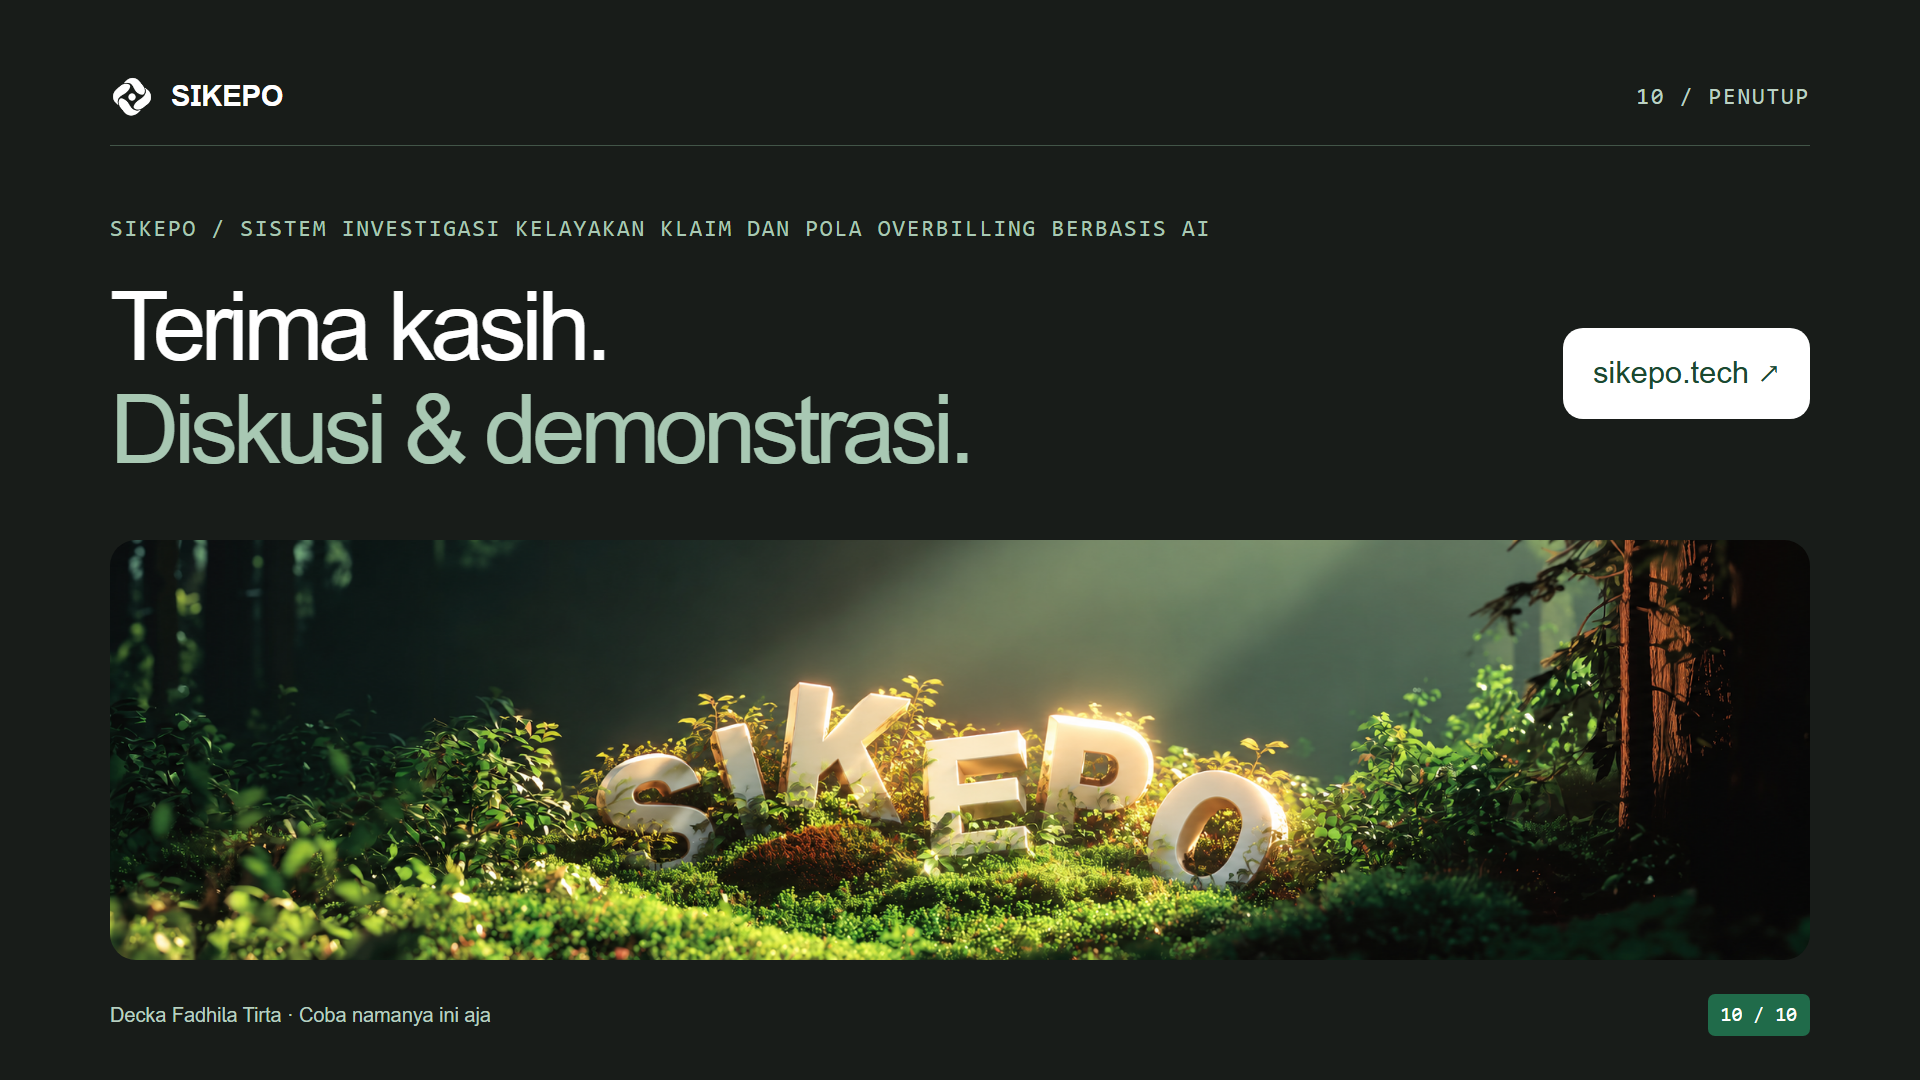
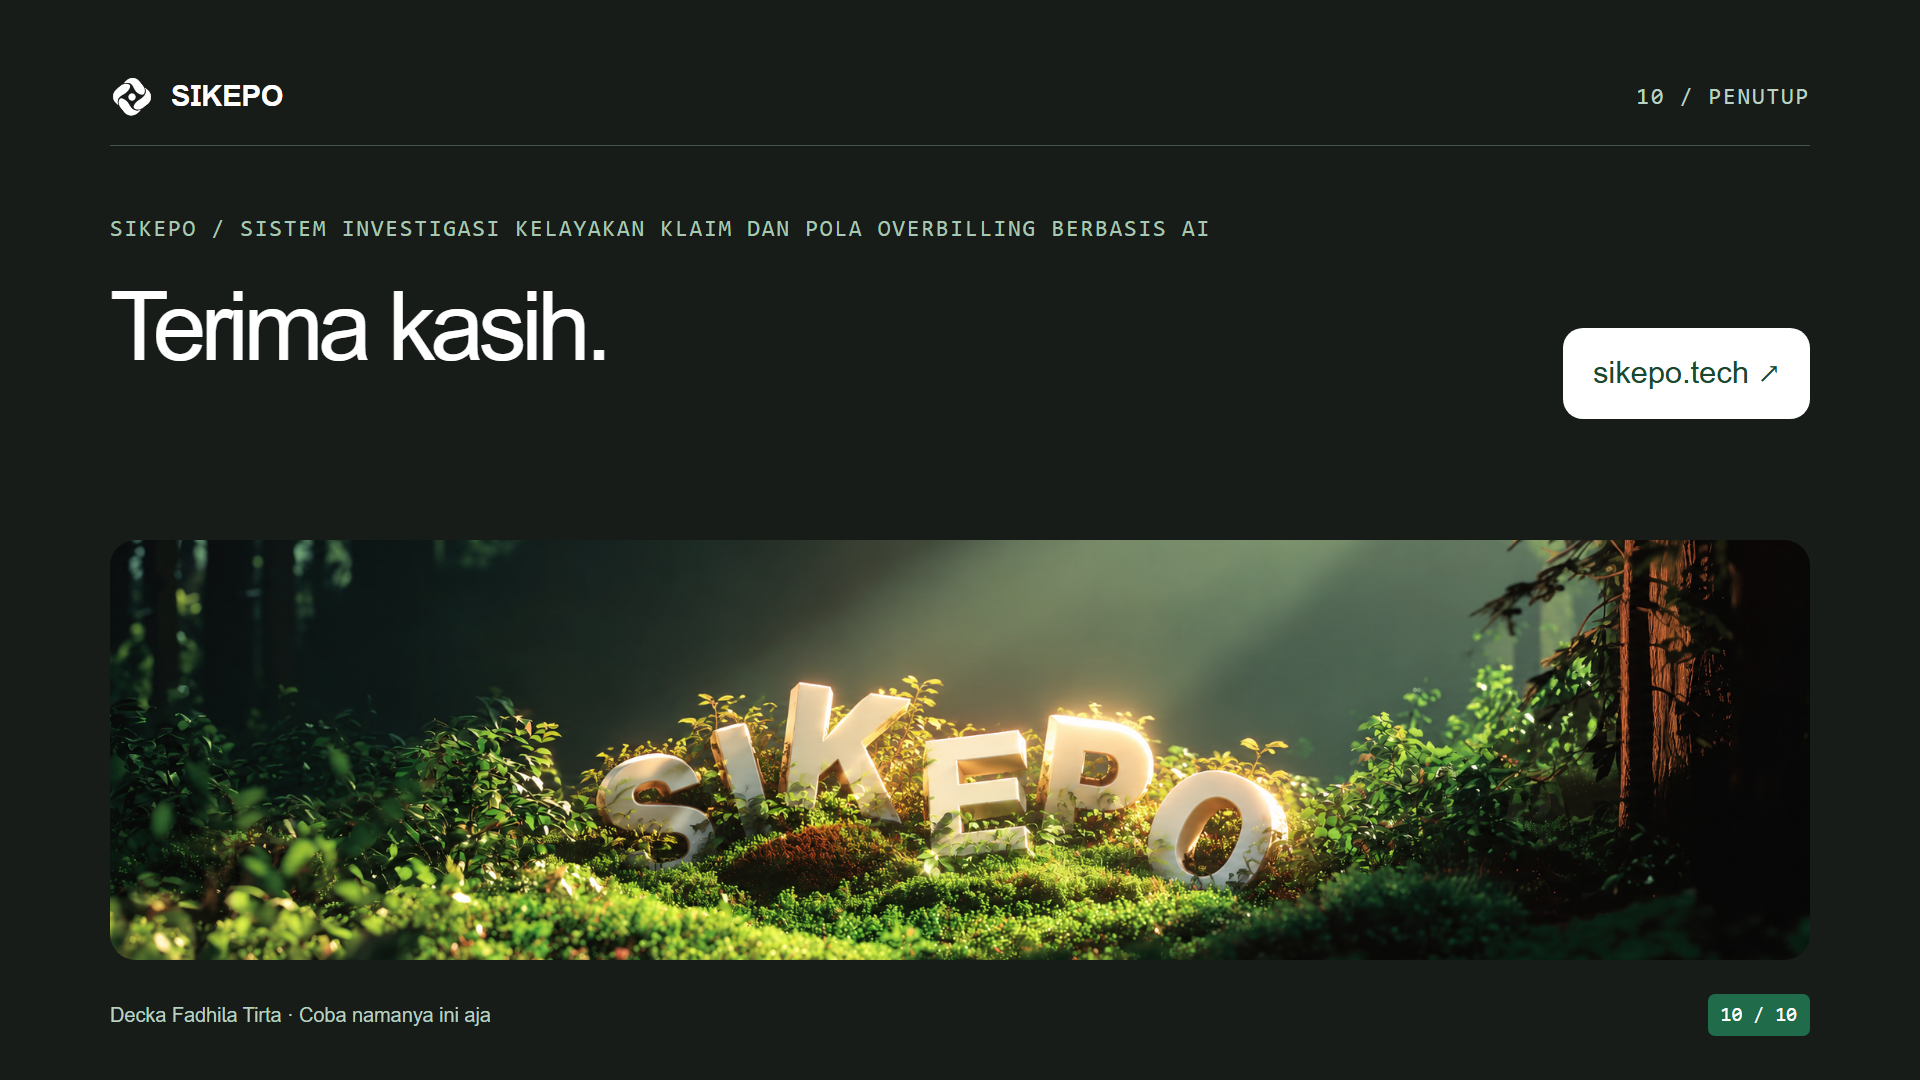
End presentation at thank you and remove question invitation

Changed region(s): [[0.0625, 0.3667, 0.5, 0.4278]]

diff --git a/slides/sikepo-pitch/index.tsx b/slides/sikepo-pitch/index.tsx
@@ -48,7 +48,7 @@ const Results:Page=()=> <div style={root}><Header section="08 / Hasil pengujian"
 
 const CaseStudy:Page=()=> <div style={root}><Header section="09 / Studi kasus"/><div style={{marginTop:75}}><p style={{...label,color:green}}>Pengajuan sintetis / diuji pada aplikasi publik</p><h2 style={{...title,marginTop:24}}>Biaya 2,5× acuan.<br/><span style={{color:'#8b948d'}}>Ada selisih total tagihan.</span></h2></div><div style={{display:'grid',gridTemplateColumns:'760px 880px',gap:60,marginTop:55}}><div style={{borderRadius:26,background:'#fff',padding:38,boxSizing:'border-box',height:410}}><p style={{...label,color:green}}>Masukan</p><p style={{fontSize:40,letterSpacing:'-.03em',margin:'35px 0 22px'}}>Rp15 juta / Rp6 juta</p><p style={{...text,fontSize:29}}>Pengajuan dibanding tarif skenario.</p><div style={{borderTop:'1px solid #c6d5c9',marginTop:30,paddingTop:25}}><p style={{...text,fontSize:29}}>A1: rasio biaya dan invoice terpicu.<br/>A2: skor 0,4964 &gt; ambang 0,3959.</p></div></div><div style={{background:'#206b4a',color:'#fff',borderRadius:26,padding:38,boxSizing:'border-box',height:410}}><p style={{...label,color:'#c0dbc9'}}>Keluaran otomatis</p><h3 style={{fontSize:45,lineHeight:1.15,fontWeight:500,letterSpacing:'-.035em',margin:'30px 0 20px'}}>Perlu investigasi</h3><p style={{...text,fontSize:30,color:'#d7e7db'}}>NALAR merangkum biaya, selisih tagihan,<br/>dan temuan anomali model.</p><div style={{borderTop:'1px solid #78a48b',marginTop:20,paddingTop:20,fontSize:27,lineHeight:1.4}}>Pemeriksa mencocokkan rincian biaya<br/>dan total invoice dengan pengajuan.</div></div></div><p style={{position:'absolute',left:110,bottom:118,fontSize:25,color:muted,margin:0}}>Kasus pada rekaman demo · Data sintetis · Keputusan akhir oleh verifikator.</p><Footer/></div>;
 
-const Closing:Page=()=> <div style={{...root,background:dark,color:'#fff'}}><Header section="10 / Penutup" light/><div style={{marginTop:90}}><p style={{...label,color:'#a9c8b4'}}>SiKePo / Sistem Investigasi Kelayakan Klaim dan Pola Overbilling berbasis AI</p><h2 style={{...title,fontSize:96,marginTop:28}}>Terima kasih.<br/><span style={{color:'#a8c8b3'}}>Diskusi & demonstrasi.</span></h2></div><a href="https://sikepo.tech" style={{position:'absolute',right:110,top:328,background:'#fff',color:'#1b4930',padding:'22px 30px',borderRadius:20,fontSize:31,textDecoration:'none'}}>sikepo.tech ↗</a><img alt="SIKEPO di lanskap hutan" src={forest} style={{position:'absolute',left:110,top:540,width:1700,height:420,objectFit:'cover',borderRadius:26}}/><Footer light/></div>;
+const Closing:Page=()=> <div style={{...root,background:dark,color:'#fff'}}><Header section="10 / Penutup" light/><div style={{marginTop:90}}><p style={{...label,color:'#a9c8b4'}}>SiKePo / Sistem Investigasi Kelayakan Klaim dan Pola Overbilling berbasis AI</p><h2 style={{...title,fontSize:96,marginTop:28}}>Terima kasih.</h2></div><a href="https://sikepo.tech" style={{position:'absolute',right:110,top:328,background:'#fff',color:'#1b4930',padding:'22px 30px',borderRadius:20,fontSize:31,textDecoration:'none'}}>sikepo.tech ↗</a><img alt="SIKEPO di lanskap hutan" src={forest} style={{position:'absolute',left:110,top:540,width:1700,height:420,objectFit:'cover',borderRadius:26}}/><Footer light/></div>;
 
 export const notes: (string | undefined)[] = [
   "[SLIDE 1 · 00:00–00:20 · 20 detik]\nSelamat pagi, Bapak dan Ibu juri. Perkenalkan, saya Decka Fadhila Tirta, dari tim “Coba namanya ini aja”. Saya mengikuti kegiatan ini secara individu. Hari ini saya akan memperkenalkan SiKePo, aplikasi yang saya kembangkan untuk membantu investigasi kelayakan klaim dan pola overbilling.\n[Jeda singkat, lanjut slide.]",
@@ -60,6 +60,6 @@ export const notes: (string | undefined)[] = [
   "[SLIDE 7 · 04:25–05:20 · 55 detik]\nAda dua proses pelatihan yang berbeda di balik sistem ini.\nUntuk machine learning, saya menggunakan dataset lima juta klaim sintetis periode 2019 sampai 2025. Sebanyak tiga koma satu juta klaim tahun 2019 sampai 2023 digunakan untuk melatih Isolation Forest. Data tahun 2024 digunakan untuk kalibrasi ambang, dan tahun 2025 untuk pengujian.\nUntuk large language model, atau LLM, saya memakai model dasar Qwen3 empat miliar parameter. Model ini kemudian di-fine-tuning dengan metode LoRA menggunakan delapan ribu instruksi sintetis. Hasil pengembangan ini saya beri nama NALAR.\nHmm... pembagian tugasnya begini: ML menghasilkan sinyal anomali, sedangkan NALAR membantu menjelaskan sinyal tersebut. NALAR menerima indikator pemeriksaan, penanda anomali, dan skor; bukan identitas atau rekam medis peserta. Seluruh data pelatihan pada pengembangan ini dibuat sintetis.",
   "[SLIDE 8 · 05:20–05:55 · 35 detik]\nPada pengujian Isolation Forest dengan sembilan ratus delapan puluh satu ribu enam ratus dua puluh klaim sintetis tahun 2025, precision mencapai delapan puluh tujuh koma delapan enam persen, recall sembilan puluh dua koma dua sembilan persen, dan F1-score sembilan puluh koma nol dua persen.\nAngka ini menunjukkan hasil deteksi pada skenario sintetis. Masih ada alarm keliru dan anomali yang terlewat, seperti yang terlihat pada tabel. Karena itu, hasil ini belum dapat dianggap sebagai akurasi deteksi fraud pada klaim BPJS nyata.",
   "[SLIDE 9 · 05:55–06:25 · 30 detik]\nSebagai rangkuman kasus pada demo, biaya pengajuan lima belas juta rupiah dibandingkan dengan acuan enam juta rupiah, atau dua setengah kali lipat. Selain itu, ada selisih total tagihan.\nAturan menandai ketidaksesuaian tersebut, dan skor anomali sekitar nol koma empat sembilan enam berada di atas ambang sekitar nol koma tiga sembilan enam. NALAR lalu merangkum alasan untuk investigasi.\nTindak lanjut yang diperlukan adalah mencocokkan rincian biaya dan invoice dengan bukti layanan. Status akhirnya dicatat oleh verifikator.",
-  "[SLIDE 10 · 06:25–06:40 · 15 detik]\nDemikian pengenalan SiKePo. Harapannya, pemeriksa dapat memulai dari klaim yang perlu perhatian, memahami alasan temuannya, dan mencatat keputusan secara lebih terarah.\nSaya Decka Fadhila Tirta. Terima kasih atas perhatian Bapak dan Ibu. Saya siap menerima pertanyaan."
+  "[SLIDE 10 · 06:25–06:40 · 15 detik]\nDemikian pengenalan SiKePo. Harapannya, pemeriksa dapat memulai dari klaim yang perlu perhatian, memahami alasan temuannya, dan mencatat keputusan secara lebih terarah.\nSaya Decka Fadhila Tirta. Terima kasih atas perhatian Bapak dan Ibu."
 ];
 export default [Team,Idea,Background,Process,Demo,Features,Training,Results,CaseStudy,Closing] satisfies Page[];

diff --git a/videos/sikepo-demo/presentation-film/index.html b/videos/sikepo-demo/presentation-film/index.html
@@ -3,7 +3,7 @@
 #root{position:relative;width:1280px;height:720px;background:#141b16}.slide{position:absolute;left:16px;top:42px;width:1040px;height:585px;overflow:hidden;border-radius:12px;background:#f0f0ee}.slide img{width:100%;height:100%;object-fit:contain}.slide video,video.slide{object-fit:contain}
 .face{position:absolute;left:1072px;top:529px;width:192px;height:108px;border:2px solid #f3f4ef;border-radius:10px;overflow:hidden;box-shadow:0 5px 14px #0005}video.face{display:block;object-fit:cover}
 .brand{position:absolute;left:1072px;top:44px;display:flex;align-items:center;gap:9px;font-size:23px;font-weight:bold}.brand img{width:28px;height:28px}.chapter{position:absolute;left:1072px;top:123px;width:184px;font-size:19px;line-height:1.4}.chapter span{font:13px monospace;color:#adc5b5}.chapter p{margin-top:17px}.name{position:absolute;left:1072px;top:652px;width:190px;font-size:13px;line-height:1.4;color:#d3dfd6}.progress{position:absolute;left:16px;top:647px;width:1040px;height:2px;background:#3d5445}.progress div{height:2px;background:#87b99a;width:100%;transform-origin:left}.credit{position:absolute;left:16px;top:668px;color:#a9bdb0;font-size:12px}
-</style></head><body><div data-hf-id="hf-si6d" id="root" data-composition-id="main" data-start="0" data-duration="417.212834" data-width="1280" data-height="720">
+</style></head><body><div data-hf-id="hf-si6d" id="root" data-composition-id="main" data-start="0" data-duration="414.742271" data-width="1280" data-height="720">
 <div data-hf-id="hf-p82d" id="slide-1" class="clip slide" data-start="0" data-duration="20.0" data-track-index="1"><img data-hf-id="hf-souv" id="image-1" src="assets/slide-01.png"></div>
 <div data-hf-id="hf-t0l6" id="chapter-1" class="clip chapter" data-start="0" data-duration="20.0" data-track-index="4"><span data-hf-id="hf-1wac">01 / 10</span><p data-hf-id="hf-nfla">Perkenalan</p></div>
 <div data-hf-id="hf-uq9t" id="slide-2" class="clip slide" data-start="20.0" data-duration="32.8" data-track-index="1"><img data-hf-id="hf-81l3" id="image-2" src="assets/slide-02.png"></div>
@@ -22,16 +22,16 @@
 <div data-hf-id="hf-b32j" id="chapter-8" class="clip chapter" data-start="331.682" data-duration="34.099999999999966" data-track-index="4"><span data-hf-id="hf-zz9h">08 / 10</span><p data-hf-id="hf-nlyh">Hasil pengujian</p></div>
 <div data-hf-id="hf-euug" id="slide-9" class="clip slide" data-start="365.782" data-duration="33.60000000000002" data-track-index="1"><img data-hf-id="hf-tf1z" id="image-9" src="assets/slide-09.png"></div>
 <div data-hf-id="hf-tvjj" id="chapter-9" class="clip chapter" data-start="365.782" data-duration="33.60000000000002" data-track-index="4"><span data-hf-id="hf-mhf0">09 / 10</span><p data-hf-id="hf-crjh">Studi kasus</p></div>
-<div data-hf-id="hf-uqsr" id="slide-10" class="clip slide" data-start="399.382" data-duration="17.831000000000017" data-track-index="1"><img data-hf-id="hf-mq3h" id="image-10" src="assets/slide-10.png"></div>
-<div data-hf-id="hf-1dmi" id="chapter-10" class="clip chapter" data-start="399.382" data-duration="17.831000000000017" data-track-index="4"><span data-hf-id="hf-pg8m">10 / 10</span><p data-hf-id="hf-kkjq">Penutup</p></div>
+<div data-hf-id="hf-uqsr" id="slide-10" class="clip slide" data-start="399.382" data-duration="15.360271" data-track-index="1"><img data-hf-id="hf-mq3h" id="image-10" src="assets/slide-10.png"></div>
+<div data-hf-id="hf-1dmi" id="chapter-10" class="clip chapter" data-start="399.382" data-duration="15.360271" data-track-index="4"><span data-hf-id="hf-pg8m">10 / 10</span><p data-hf-id="hf-kkjq">Penutup</p></div>
 <video data-hf-id="hf-4433" id="presenter-0" class="clip face" data-start="0" data-duration="157.648938" data-track-index="3" src="assets/01-pre-demo.mp4" data-has-audio="true" playsinline></video>
 <video data-hf-id="hf-x7ie" id="presenter-1" class="clip face" data-start="157.648938" data-duration="86.633333" data-track-index="3" src="assets/02-demo.mp4" data-has-audio="true" playsinline></video>
-<video data-hf-id="hf-c0ar" id="presenter-2" class="clip face" data-start="244.28227099999998" data-duration="172.930563" data-track-index="3" src="assets/03-after-demo.mp4" data-has-audio="true" playsinline></video>
-<div data-hf-id="hf-rnwb" id="brand" class="clip brand" data-start="0" data-duration="417.212834" data-track-index="4"><img data-hf-id="hf-r1im" src="assets/logo.png">SIKEPO</div>
-<div data-hf-id="hf-o94b" id="name" class="clip name" data-start="0" data-duration="417.212834" data-track-index="4">Decka Fadhila Tirta</div>
-<div data-hf-id="hf-8tzo" id="progress" class="clip progress" data-start="0" data-duration="417.212834" data-track-index="4"><div data-hf-id="hf-c4bu" id="progress-fill"></div></div>
-<div data-hf-id="hf-modm" id="credit" class="clip credit" data-start="0" data-duration="417.212834" data-track-index="4">Coba namanya ini aja · SiKePo: investigasi kelayakan klaim dan pola overbilling berbasis AI</div>
-</div><script>window.__timelines=window.__timelines||{};const tl=gsap.timeline({paused:true});tl.fromTo('#progress-fill',{scaleX:0},{scaleX:1,duration:417.212834,ease:'none'},0);
+<video data-hf-id="hf-c0ar" id="presenter-2" class="clip face" data-start="244.28227099999998" data-duration="170.46" data-track-index="3" src="assets/03-after-demo.mp4" data-has-audio="true" playsinline></video>
+<div data-hf-id="hf-rnwb" id="brand" class="clip brand" data-start="0" data-duration="414.742271" data-track-index="4"><img data-hf-id="hf-r1im" src="assets/logo.png">SIKEPO</div>
+<div data-hf-id="hf-o94b" id="name" class="clip name" data-start="0" data-duration="414.742271" data-track-index="4">Decka Fadhila Tirta</div>
+<div data-hf-id="hf-8tzo" id="progress" class="clip progress" data-start="0" data-duration="414.742271" data-track-index="4"><div data-hf-id="hf-c4bu" id="progress-fill"></div></div>
+<div data-hf-id="hf-modm" id="credit" class="clip credit" data-start="0" data-duration="414.742271" data-track-index="4">Coba namanya ini aja · SiKePo: investigasi kelayakan klaim dan pola overbilling berbasis AI</div>
+</div><script>window.__timelines=window.__timelines||{};const tl=gsap.timeline({paused:true});tl.fromTo('#progress-fill',{scaleX:0},{scaleX:1,duration:414.742271,ease:'none'},0);
 tl.fromTo('#image-1',{opacity:0,y:8},{opacity:1,y:0,duration:.26,ease:'power2.out'},0);
 tl.fromTo('#image-2',{opacity:0,y:8},{opacity:1,y:0,duration:.26,ease:'power2.out'},20.0);
 tl.fromTo('#image-3',{opacity:0,y:8},{opacity:1,y:0,duration:.26,ease:'power2.out'},52.8);
